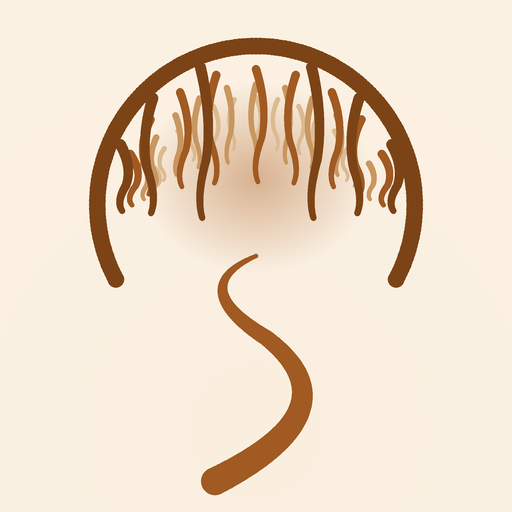
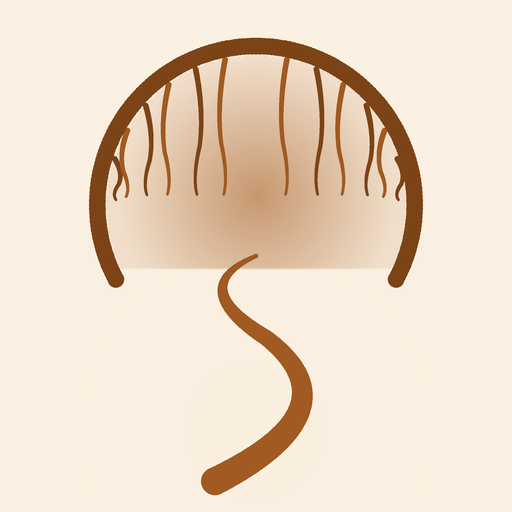
deploy 20260612-0432

Changed region(s): [[0.2188, 0.0938, 0.8125, 0.5312]]

diff --git a/index.html b/index.html
@@ -7,8 +7,8 @@
 <meta name="apple-mobile-web-app-capable" content="yes">
 <meta name="apple-mobile-web-app-status-bar-style" content="black-translucent">
 <meta name="apple-mobile-web-app-title" content="Excurse">
-<link rel="apple-touch-icon" href="./icon-180.png?v=3f6e86d8">
-<link rel="icon" type="image/png" href="./icon-180.png?v=3f6e86d8">
+<link rel="apple-touch-icon" href="./icon-180.png?v=560d666b">
+<link rel="icon" type="image/png" href="./icon-180.png?v=560d666b">
 <link rel="manifest" href="./manifest.webmanifest">
 <title>Excurse</title>
 <style>
@@ -16,7 +16,7 @@
 @font-face{font-family:"Source Serif 4";src:url("./fonts/source-serif-italic-var.woff2") format("woff2");font-style:italic;font-weight:200 900;font-display:swap}
 @font-face{font-family:"Archivo";src:url("./fonts/archivo-var.woff2") format("woff2");font-weight:100 900;font-display:swap}
 </style>
-  <script type="module" crossorigin src="./assets/index-CEuaqcqW.js"></script>
+  <script type="module" crossorigin src="./assets/index-UY049y1M.js"></script>
   <link rel="stylesheet" crossorigin href="./assets/style-JcxmqCkT.css">
 </head>
 <body>

diff --git a/sw.js b/sw.js
@@ -2,8 +2,8 @@
    Hashed assets + fonts: cache-first (immutable). index.html, manifest, trip-data.enc:
    network-first with a short timeout, falling back to cache, so a weak signal never
    blocks boot. Cache name is stamped per deploy; old caches die on activate.
-   20260612042549 is substituted by scripts/deploy.sh. */
-const CACHE = "excurse-20260612042549";
+   20260612043223 is substituted by scripts/deploy.sh. */
+const CACHE = "excurse-20260612043223";
 const NET_TIMEOUT = 3500;
 
 self.addEventListener("install", () => self.skipWaiting());